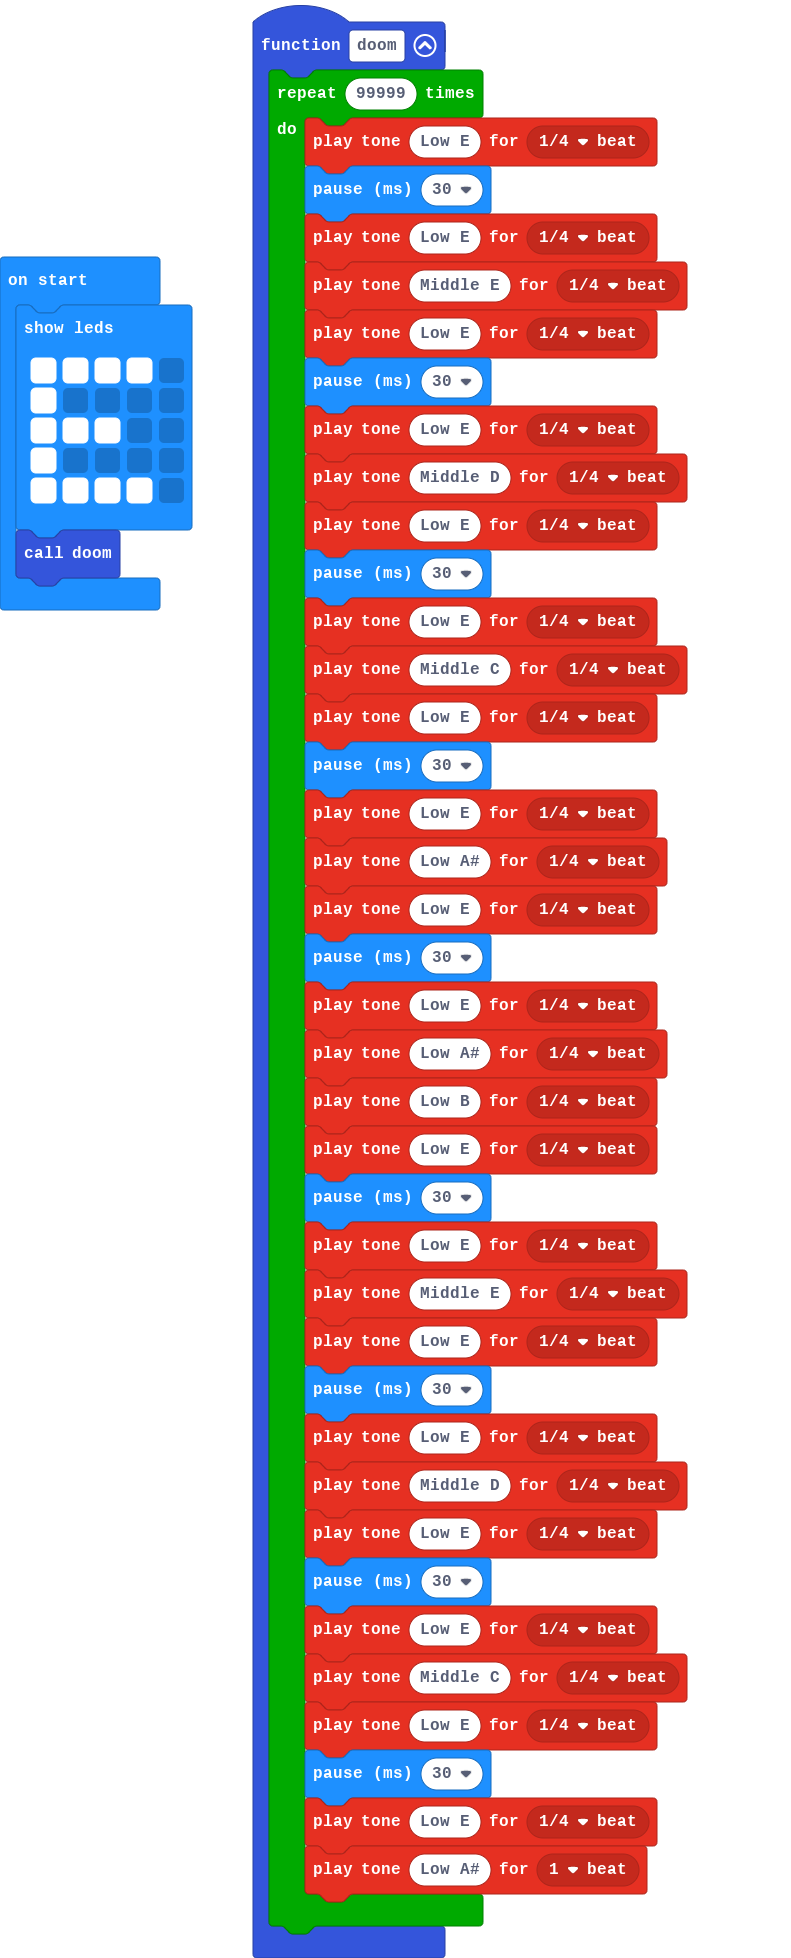
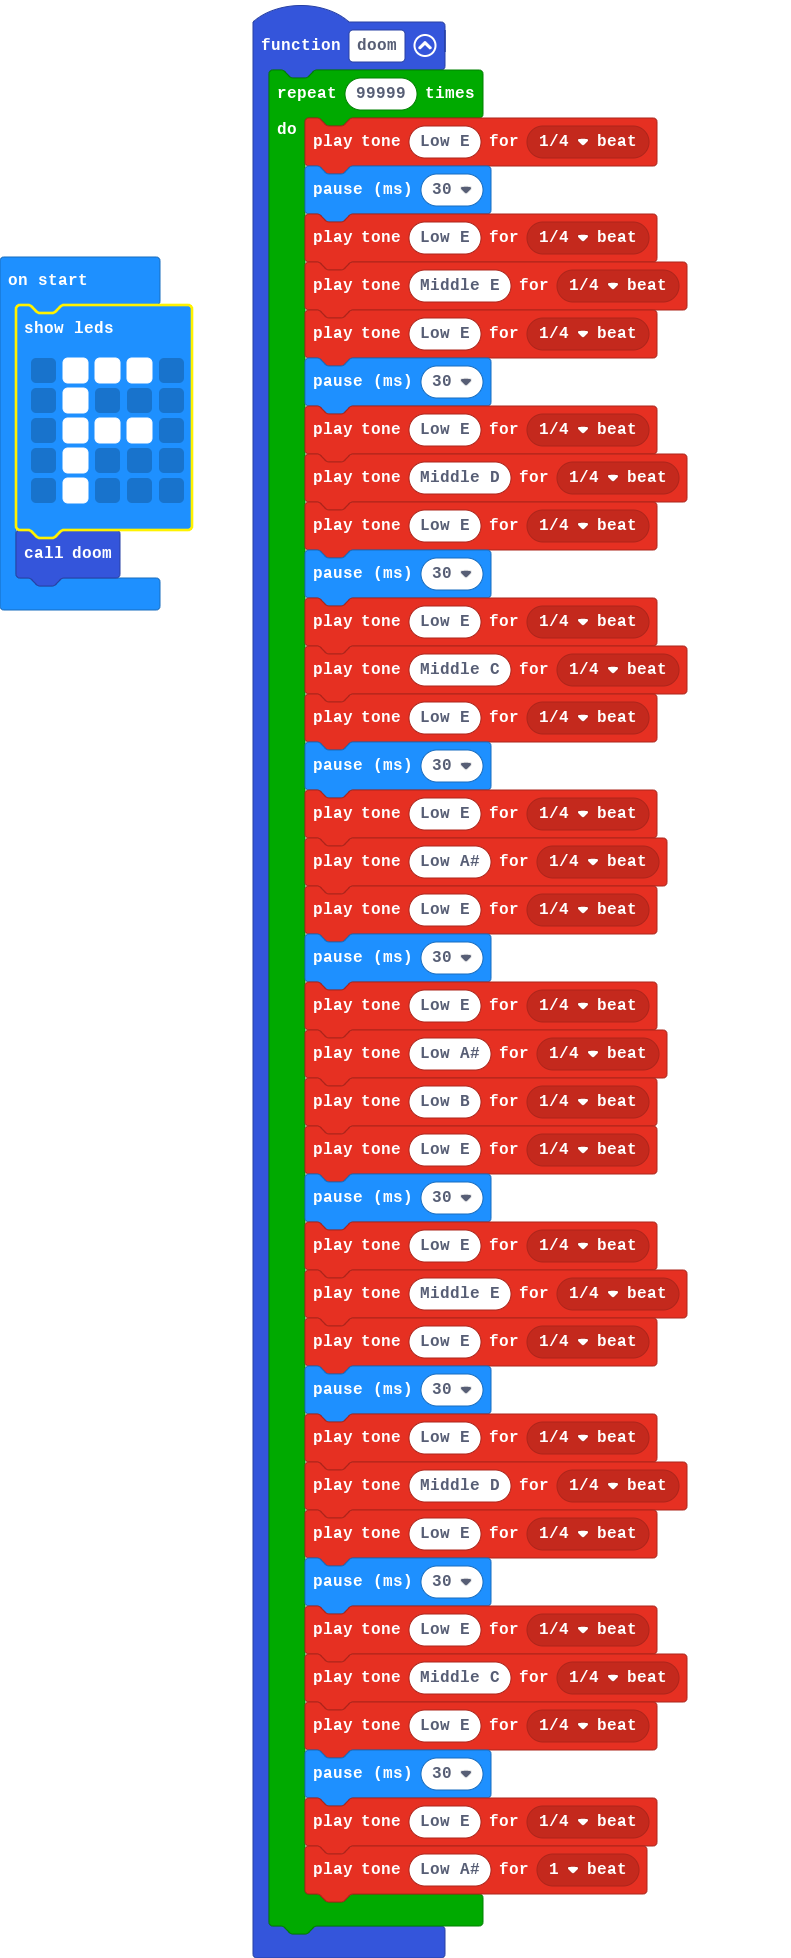
changed the E to F

Changed region(s): [[0.0, 0.1558, 0.2427, 0.2804], [0.2124, 0.1558, 0.2427, 0.1869]]

diff --git a/main.ts b/main.ts
@@ -40,10 +40,10 @@ function doom () {
     }
 }
 basic.showLeds(`
-    # # # # .
-    # . . . .
-    # # # . .
-    # . . . .
-    # # # # .
+    . # # # .
+    . # . . .
+    . # # # .
+    . # . . .
+    . # . . .
     `)
 doom()
